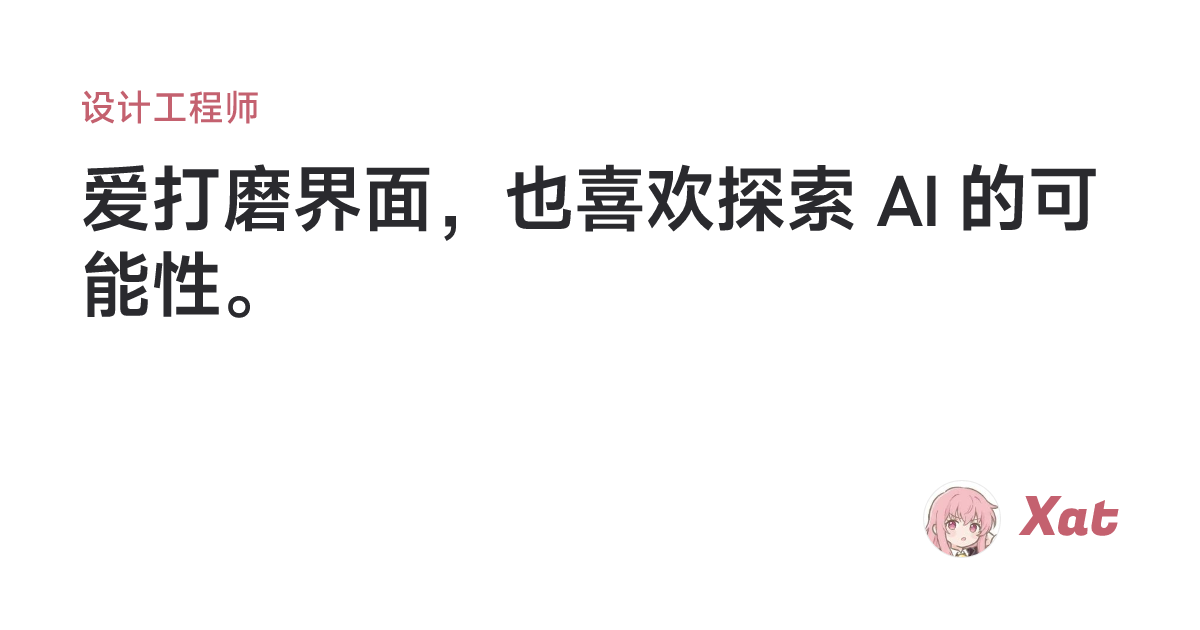
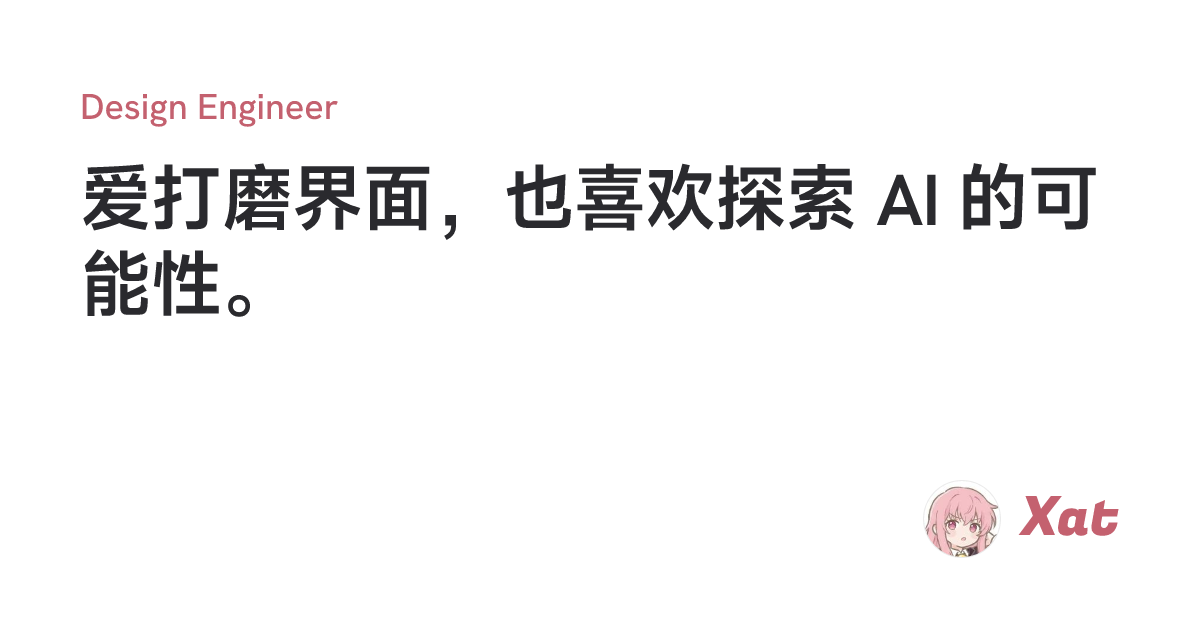
fix(i18n): use Design Engineer as the Chinese role title
设计工程师 commonly reads as a mechanical or hardware role in Chinese
job listings, so the home page role, site title, meta descriptions, and
default OG eyebrow now say Design Engineer, as the English locale does.
Regenerate the default and resume OG images.

Amp-Thread-ID: https://ampcode.com/threads/T-01a20b75-eca6-779d-80be-338086c42d76

diff --git a/src/lib/i18n/messages/zh.ts b/src/lib/i18n/messages/zh.ts
@@ -172,16 +172,16 @@ const zh: Messages = {
 		introBeforeSystems: '',
 		introBetweenBadges: '让我习惯在设计、工程与真实需求之间寻找平衡，去构建',
 		metaDescription:
-			'设计工程师，专注 AI 与前端，写些关于前端、设计、AI 的文章。',
+			'Design Engineer，专注 AI 与前端，写些关于前端、设计、AI 的文章。',
 		notFound: {
 			description: '这里好像什么也没有，页面可能已经搬家了。',
 			title: '页面未找到',
 		},
 		playName: '播放名字读音',
 		projectsEyebrow: '项目',
-		role: '设计工程师',
-		tagline: 'Xat - 设计工程师',
-		title: 'Xat - 设计工程师',
+		role: 'Design Engineer',
+		tagline: 'Xat - Design Engineer',
+		title: 'Xat - Design Engineer',
 		viewAllPosts: '查看全部',
 		writingEyebrow: '写作',
 	},
@@ -189,7 +189,7 @@ const zh: Messages = {
 		ariaLabel: '语言',
 	},
 	resume: {
-		pageDescription: '设计工程师 Xat 的简历：AI 原生产品、前端工程与界面打磨。',
+		pageDescription: 'Design Engineer Xat 的简历：AI 原生产品、前端工程与界面打磨。',
 		pageTitle: '简历 - Xat',
 		present: '至今',
 		print: '打印或存为 PDF',

diff --git a/src/lib/og/constants.ts b/src/lib/og/constants.ts
@@ -48,7 +48,7 @@ export const ZH_CATEGORY_NAMES: Record<string, string> = {
 }
 
 export const OG_SITE_DEFAULT = {
-	eyebrow: '设计工程师',
+	eyebrow: 'Design Engineer',
 	summary: '爱打磨界面，也喜欢探索 AI 的可能性。',
 	title: 'Xat',
 } as const
